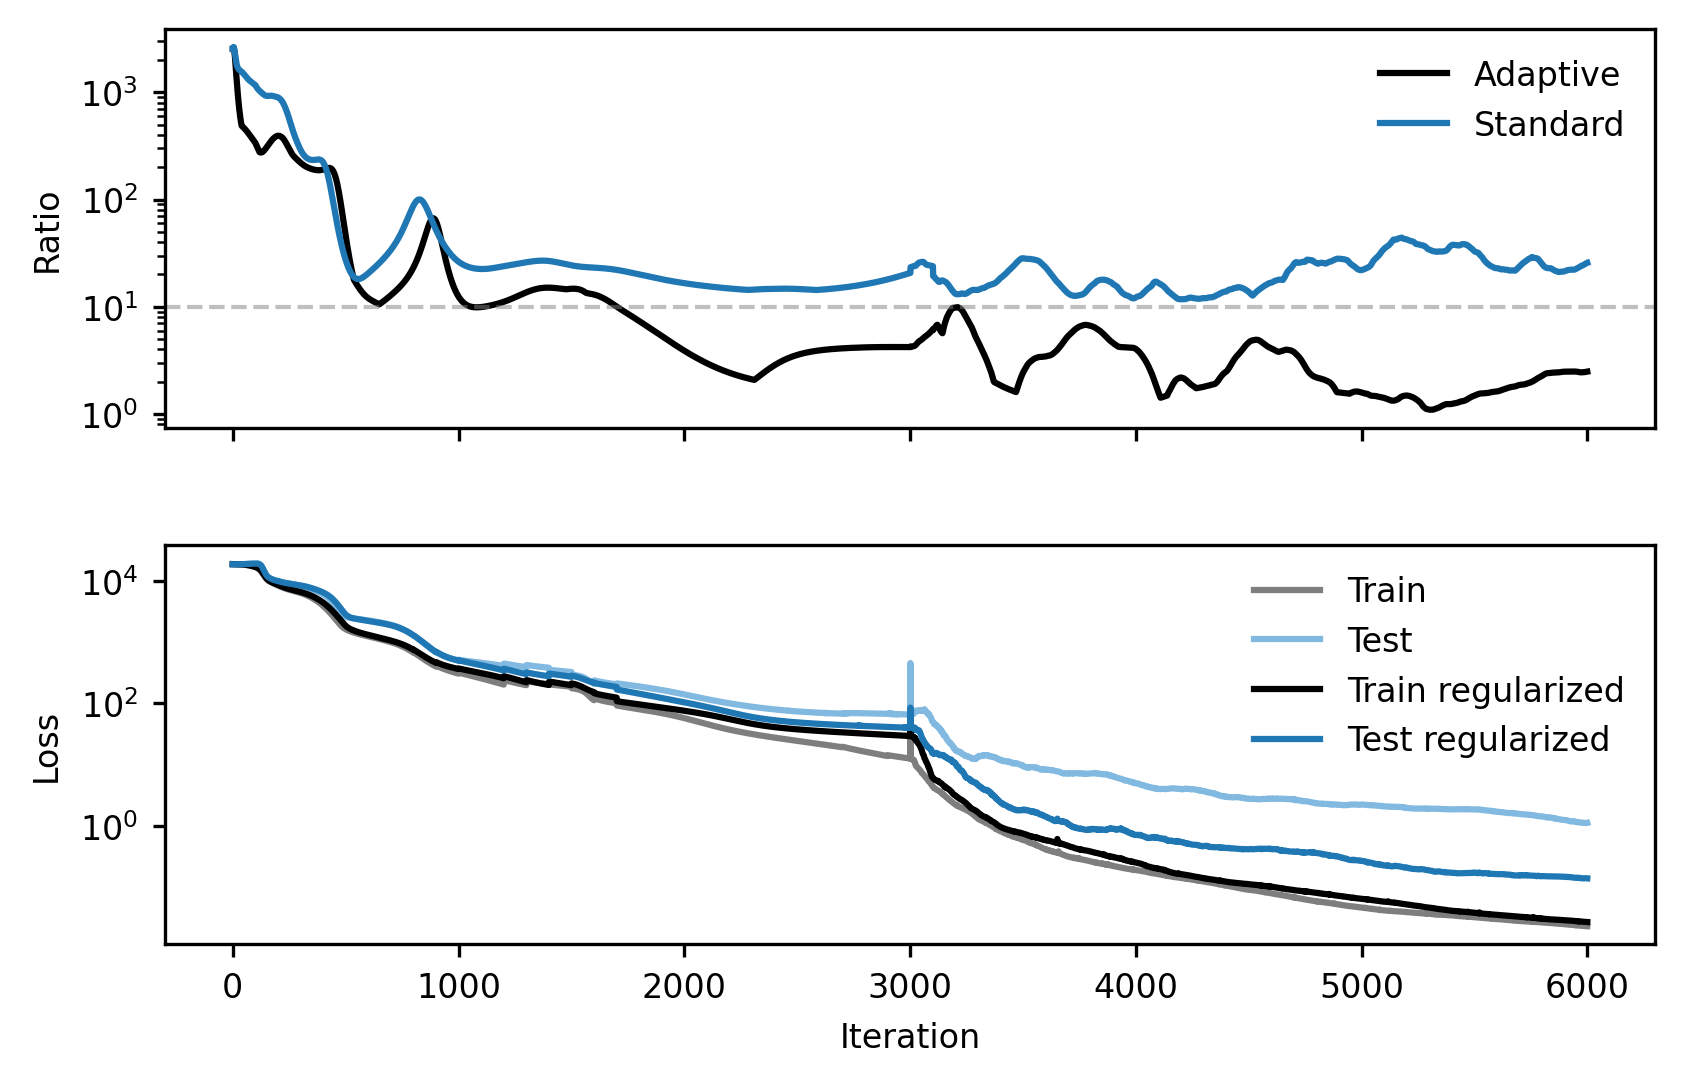
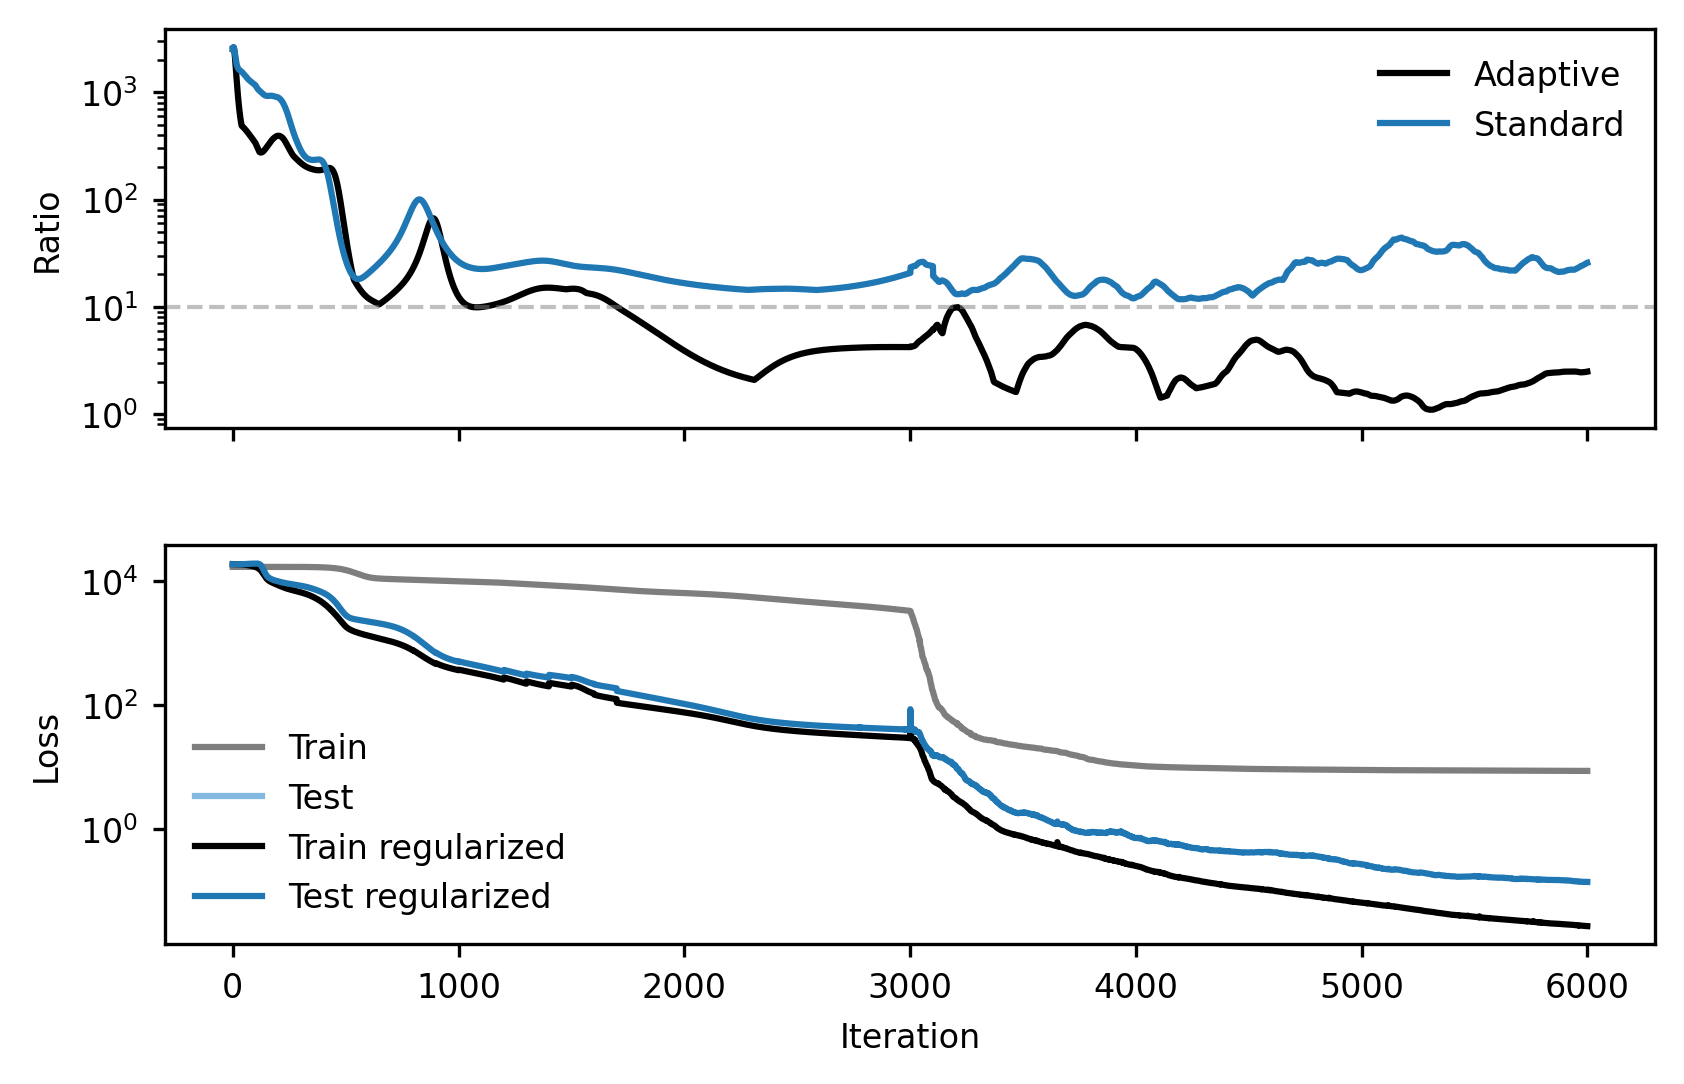
Update models and training parameters in KAN approximation
- Modified the `build_models_KAN` function to include `grid_range` set to [-5, 5] and changed `base_activation` to `torch.nn.Tanh` for both models.
- Increased the learning rate from 1e-4 to 1e-3 in the `train_dual_network` function.
- Removed the `tolerance_grad` parameter from the LBFGS optimizer settings.
- Updated binary files for results and figures.

diff --git a/utils/pinns.py b/utils/pinns.py
@@ -308,12 +308,16 @@ def build_models_KAN(
         layers_hidden=[2] + [hidden_units] * hidden_layers + [1],
         grid_size=grid_size,
         spline_order=spline_order,
+        grid_range=[-5,5],
+        base_activation=torch.nn.Tanh
     ).to(device)
 
     model_k = KAN(
         layers_hidden=[2] + [hidden_units] * hidden_layers + [1],
         grid_size=grid_size,
         spline_order=spline_order,
+        grid_range=[-5,5],
+        base_activation=torch.nn.Tanh
     ).to(device)
 
     return model_u, model_k 
@@ -371,7 +375,7 @@ def train_dual_network(
     K_obs_test,
     X_pde_test,
     F_pde_test,
-    adam_lr=1e-4,
+    adam_lr=1e-3,
     adam_iters=1000,
     lbfgs_iters=2000,
     verbose=False,
@@ -400,7 +404,6 @@ def train_dual_network(
         lr=1,
         max_iter=lbfgs_iters,
         max_eval=lbfgs_iters,
-        tolerance_grad=1e-7,
         history_size=100,
         tolerance_change=1.0 * np.finfo(float).eps,
         line_search_fn="strong_wolfe")